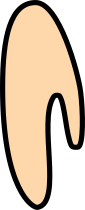
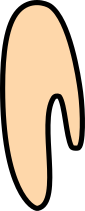
Add files via upload

diff --git a/paperdoll/index.html b/paperdoll/index.html
@@ -122,13 +122,13 @@
         id: 'hand_l', name: 'Left Hand', zIndex: 15, x: 150, y: 300, rot: 0,
         w: 20, h: 50, color: '#fed7aa', parentId: null, activePivotIdx: 0,
         imgSrc: 'parts/hand.png', flipX: false,
-        magnets: [{ id: 'hand_wrist_l', relX: -3, relY: -18 }]
+        magnets: [{ id: 'hand_wrist_l', relX: -1, relY: -18 }]
       },
       {
         id: 'hand_r', name: 'Right Hand', zIndex: 15, x: 570, y: 300, rot: 0,
         w: 20, h: 50, color: '#fed7aa', parentId: null, activePivotIdx: 0,
         imgSrc: 'parts/hand.png', flipX: true,
-        magnets: [{ id: 'hand_wrist_r', relX: -3, relY: -18 }]
+        magnets: [{ id: 'hand_wrist_r', relX: -1, relY: -18 }]
       },
       {
         id: 'foot_l', name: 'Left Foot', zIndex: -20, x: 110, y: 490, rot: 0,
